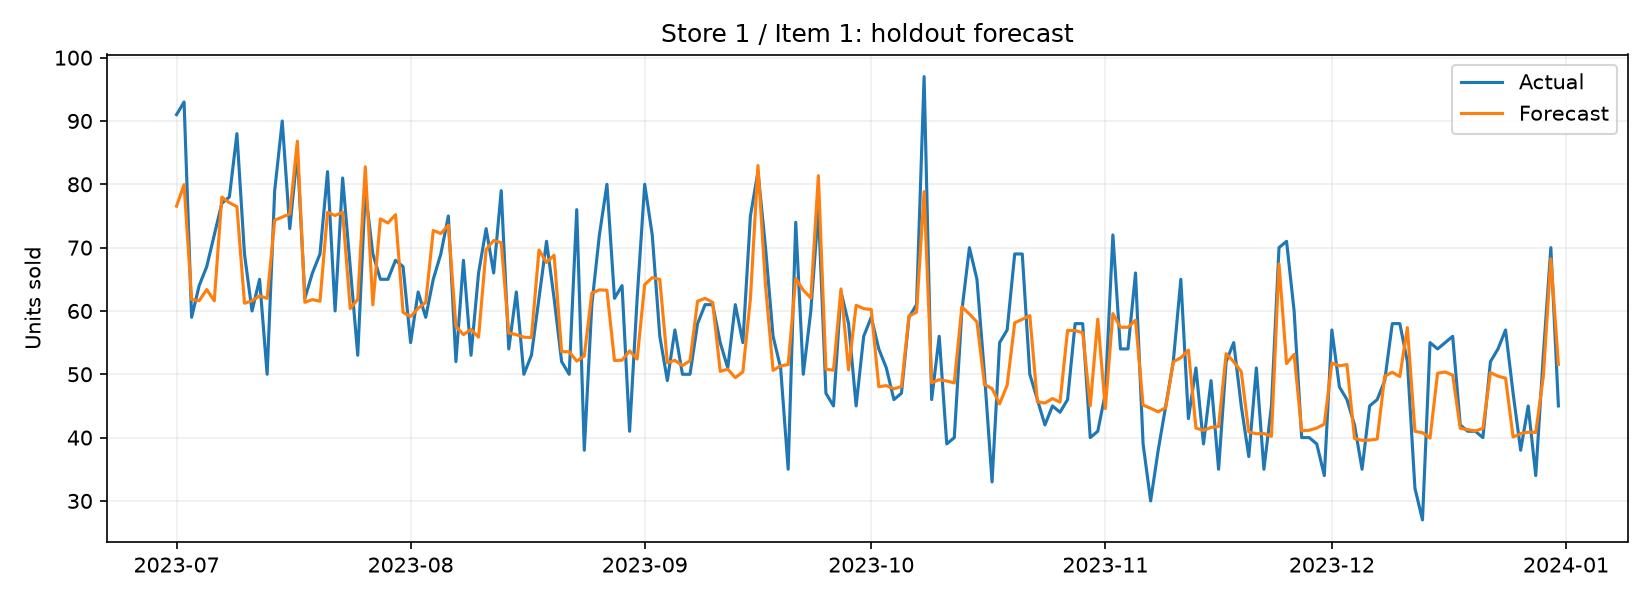
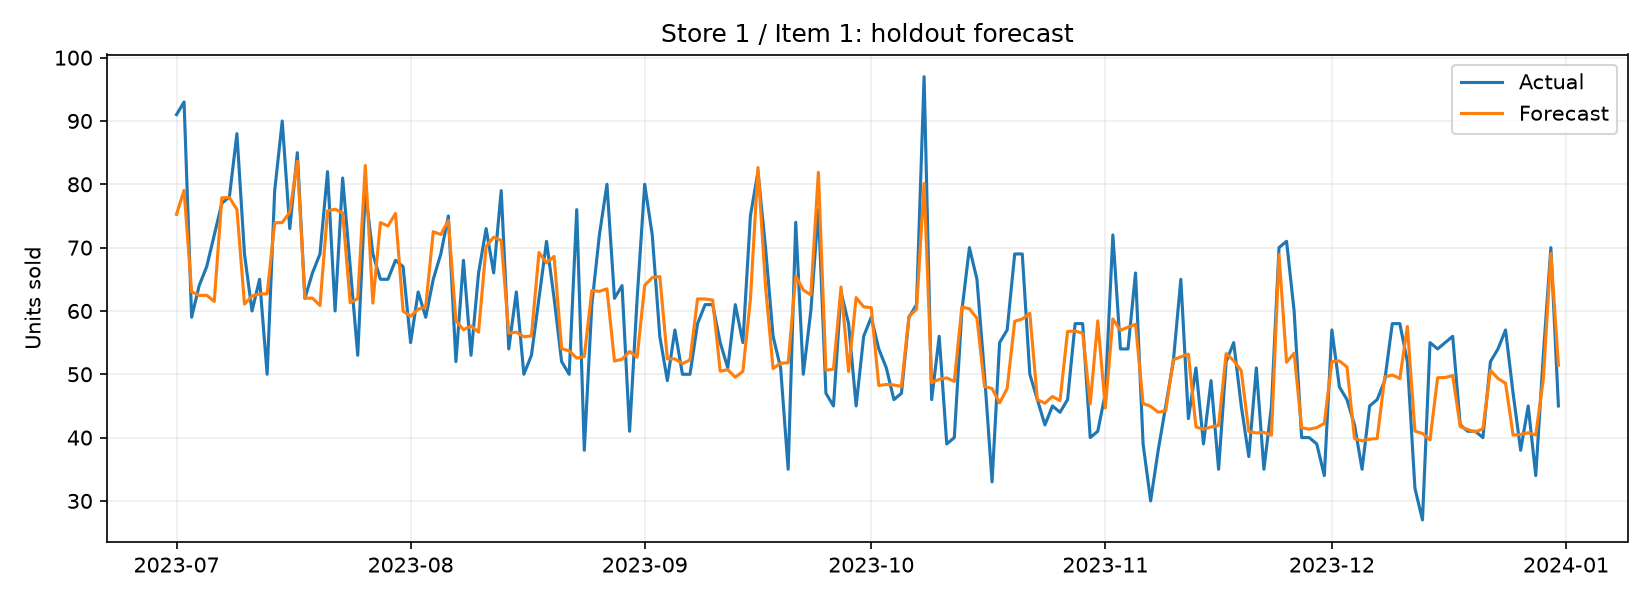
docs: finalize clean-environment results

diff --git a/docs/06_TESTING_EVALUATION.md b/docs/06_TESTING_EVALUATION.md
@@ -22,5 +22,6 @@ python -m pytest -q
 | 2026-10-27 | `python src/generate_data.py`; `python src/eda.py` | Generated 27,390 rows from 2019-01-01 to 2023-12-31 (3 stores, 5 items); chart saved to `reports/sales_overview.png`. Friday mean sales: 682.5; Monday: 544.4. Pytest was initially unavailable; it was installed later. | Synthetic data generation and EDA completed; weekday pattern is visible. The full suite was later verified. |
 | 2026-10-27 | `python src/baselines.py` on the 2023-07-01–2023-12-31 time holdout | Yesterday: MAE 9.79, RMSE 13.37, MAPE 22.88%. Last week: MAE 8.83, RMSE 12.06, MAPE 21.03%. Metrics saved in `reports/baseline_metrics.csv`. | Seasonal naive is the stronger baseline so far; the final model must beat MAE 8.83 to meet the project success criterion. |
 | 2026-10-27 | `python src/train.py` | Fitted HistGradientBoosting on 24,210 feature rows from 2019-01-29 through 2023-06-30 and saved `models/sales_model.joblib`. No holdout metrics were used for fitting. | Training artifact was fit only on the training dates; the full suite was later verified. |
-| 2026-10-27 | `python src/evaluate.py` on the 2023-07-01–2023-12-31 holdout; visual review of `reports/forecast.png` and largest absolute errors | Yesterday baseline: 9.79 / 13.37 / 22.88%; seasonal naive: 8.83 / 12.06 / 21.03%; HistGradientBoosting: 5.49 / 7.12 / 13.58% (MAE / RMSE / MAPE). Weekday model MAE ranges from 5.03 (Monday) to 5.91 (Sunday). Largest miss was 41.36 units (store 3/item 5, 2023-10-26, promo day); other large misses include stochastic non-promo peaks. `python -m pytest -q`: 8 passed. | Model beats the strongest baseline on MAE and meets the synthetic MAPE target. It smooths isolated spikes; one-step rolling evaluation uses prior observed sales. |
-| 2026-10-27 | `python src/recommend_reorder.py --store 1 --item 1 --on-hand 20`; dashboard browser smoke check | CLI forecast 42.2 units for 2024-01-01 and suggested ordering 32 units with the default 20% safety factor. Dashboard rendered forecasts, held-out metrics, weekday errors, and updated the recommendation to 0 units when on-hand stock was set to 100. `python -m pytest -q`: 10 passed. | Reorder and dashboard flows work. Holiday labels are unavailable in the selected synthetic data; the point forecast is not a confidence interval. |
+| 2026-10-27 | Clean Python 3.14 environment `python src/evaluate.py` on the 2023-07-01–2023-12-31 holdout; visual review of forecast and largest absolute errors | Yesterday baseline: 9.79 / 13.37 / 22.88%; seasonal naive: 8.83 / 12.06 / 21.03%; HistGradientBoosting: 5.49 / 7.12 / 13.60% (MAE / RMSE / MAPE). Weekday model MAE ranges from 5.01 (Monday) to 5.92 (Sunday). Largest miss was 42.84 units (store 3/item 5, 2023-10-26, promo day); other large misses include stochastic non-promo peaks. | Model beats the strongest baseline on MAE and meets the synthetic MAPE target. It smooths isolated spikes; one-step rolling evaluation uses prior observed sales. |
+| 2026-10-27 | `python src/recommend_reorder.py --store 1 --item 1 --on-hand 20`; dashboard browser smoke check | Clean-environment CLI forecast 42.4 units for 2024-01-01 and suggested ordering 32 units with the default 20% safety factor. Dashboard rendered forecasts, held-out metrics, weekday errors, and updated the recommendation to 0 units when on-hand stock was set to 100. Clean-environment `python -m pytest -q`: 10 passed. | Reorder and dashboard flows work. Holiday labels are unavailable in the selected synthetic data; the point forecast is not a confidence interval. |
+| 2026-10-27 | Fresh detached worktree at `fea84e0`, isolated Python 3.14 virtual environment, and README commands | Installed all requirements; generation, EDA, baselines, training, evaluation, reorder CLI, and dashboard launch completed. `python -m pytest -q`: 10 passed. | Clean checkout setup works. Metric differences across supported library versions are small; README values match this isolated environment. |

diff --git a/docs/05_ROADMAP.md b/docs/05_ROADMAP.md
@@ -43,5 +43,6 @@ Convert forecast into a suggested reorder quantity with a safety stock. Dashboar
 | 2026-10-27 | Generated the documented synthetic sales data and added a validating EDA script with a daily trend and weekday seasonality chart. Data covers 2019-01-01 through 2023-12-31 across 3 stores and 5 items; Friday averaged 682.5 units versus Monday's 544.4. | Pytest was initially unavailable; it was later installed from cache and the full suite passed. | Phase 2: compare yesterday and last-week baselines on a time-based holdout. |
 | 2026-10-27 | Added prior-day and prior-week baseline forecasts, temporal holdout scoring, and unit tests. On 2023-07-01 through 2023-12-31, yesterday MAE/RMSE/MAPE were 9.79/13.37/22.88%; last-week values were 8.83/12.06/21.03%. | Pytest was initially unavailable; it was later installed from cache and the full suite passed. | Phase 3: engineer leakage-safe features and train the ML model against these baselines. |
 | 2026-10-27 | Added shared sales cleaning (invalid values rejected, duplicate keys aggregated, missing dates filled), a prior-day model feature, and training-only HistGradientBoosting fitting. The model trained on 24,210 rows through 2023-06-30. | Pytest was initially unavailable; it was later installed from cache and the full suite passed. | Phase 4: evaluate the saved model on the held-out dates and compare with both baselines. |
-| 2026-10-27 | Evaluated the baselines and HistGradientBoosting on held-out 2023-07-01–2023-12-31 dates, saved metrics and forecast plots, and reviewed weekday errors and largest misses. ML MAE/RMSE/MAPE were 5.49/7.12/13.58%; all 8 tests passed. | None. | Phase 5: add reorder recommendations and the Streamlit dashboard after the Must-have pipeline passed tests. |
-| 2026-10-27 | Added next-day forecast features, safety-stock reorder CLI, and Streamlit dashboard; completed the report and README. Dashboard shows forecasts, inventory input, reorder suggestion, evaluation metrics, and weekday errors. Browser preview rendered and recommendation updated with stock input; 10 tests passed. | Clean-clone verification remains. | Verify README setup from a clean clone and close out deliverables. |
+| 2026-10-27 | Evaluated the baselines and HistGradientBoosting on held-out 2023-07-01–2023-12-31 dates, saved metrics and forecast plots, and reviewed weekday errors and largest misses. The clean Python 3.14 environment scored ML MAE/RMSE/MAPE 5.49/7.12/13.60%; all 10 tests passed there. | None. | Phase 5: add reorder recommendations and the Streamlit dashboard after the Must-have pipeline passed tests. |
+| 2026-10-27 | Added next-day forecast features, safety-stock reorder CLI, and Streamlit dashboard; completed the report and README. Dashboard shows forecasts, inventory input, reorder suggestion, evaluation metrics, and weekday errors. Browser preview rendered and recommendation updated with stock input; 10 tests passed. | None. | Verify the clean checkout. |
+| 2026-10-27 | Completed the README pipeline in a fresh detached worktree with an isolated Python 3.14 `.venv`; all 10 tests passed and the dashboard rendered. Switched to pandas' canonical calendar attributes to avoid deprecation warnings. | None. | Complete deliverables. |

diff --git a/docs/09_REPORT_TEMPLATE.md b/docs/09_REPORT_TEMPLATE.md
@@ -5,7 +5,7 @@
 
 ## Abstract
 
-This project forecasts daily sales for individual store and product pairs to support inventory planning. It uses a reproducible synthetic dataset with calendar, promotion, lag, and rolling-mean features in a time-series pipeline. A HistGradientBoosting model was trained before 2023-07-01 and evaluated on the later 2023-07-01 through 2023-12-31 period using one-step rolling forecasts. The model achieved MAE 5.49, RMSE 7.12, and MAPE 13.58%, improving on the seasonal-naive MAE of 8.83. A Streamlit dashboard and command-line tool turn next-day forecasts into reorder suggestions with configurable safety stock.
+This project forecasts daily sales for individual store and product pairs to support inventory planning. It uses a reproducible synthetic dataset with calendar, promotion, lag, and rolling-mean features in a time-series pipeline. A HistGradientBoosting model was trained before 2023-07-01 and evaluated on the later 2023-07-01 through 2023-12-31 period using one-step rolling forecasts. In the clean Python 3.14 environment, it achieved MAE 5.49, RMSE 7.12, and MAPE 13.60%, improving on the seasonal-naive MAE of 8.83. A Streamlit dashboard and command-line tool turn next-day forecasts into reorder suggestions with configurable safety stock.
 
 ## Introduction
 
@@ -25,13 +25,13 @@ Calendar features include weekday, month, and day of year. Lag features use the 
 |---|---:|---:|---:|
 | Naive: yesterday | 9.79 | 13.37 | 22.88% |
 | Seasonal naive: last week | 8.83 | 12.06 | 21.03% |
-| HistGradientBoosting | 5.49 | 7.12 | 13.58% |
+| HistGradientBoosting | 5.49 | 7.12 | 13.60% |
 
-The model's weekday MAE ranges from 5.03 units on Monday to 5.91 on Sunday. The forecast-versus-actual chart is in `reports/forecast.png`; the EDA trend and weekday chart is in `reports/sales_overview.png`.
+The model's weekday MAE ranges from 5.01 units on Monday to 5.92 on Sunday. The forecast-versus-actual chart is in `reports/forecast.png`; the EDA trend and weekday chart is in `reports/sales_overview.png`.
 
 ## Discussion and error analysis
 
-The model beats both baselines on MAE and stays below the synthetic-data MAPE target of about 15%. The largest absolute miss was 41.36 units for store 3/item 5 on 2023-10-26, a promotion day with an observed spike. Other large misses were stochastic non-promotion peaks. Lag and rolling features smooth such spikes, so the model can under-forecast abrupt demand changes.
+The model beats both baselines on MAE and stays below the synthetic-data MAPE target of about 15%. The largest absolute miss was 42.84 units for store 3/item 5 on 2023-10-26, a promotion day with an observed spike. Other large misses were stochastic non-promotion peaks. Lag and rolling features smooth such spikes, so the model can under-forecast abrupt demand changes. Scores vary slightly across supported scikit-learn versions.
 
 ## Limitations and ethics
 

diff --git a/README.md b/README.md
@@ -63,12 +63,14 @@ from earlier test days as lag features.
 |---|---:|---:|---:|
 | Naive: yesterday | 9.79 | 13.37 | 22.88% |
 | Seasonal naive: last week | 8.83 | 12.06 | 21.03% |
-| HistGradientBoosting | 5.49 | 7.12 | 13.58% |
+| HistGradientBoosting | 5.49 | 7.12 | 13.60% |
 
 ![Store 1, item 1 held-out forecast compared with actual sales](reports/forecast.png)
 
-The largest model errors are isolated demand spikes, including a synthetic
-promo-day spike; lag and rolling features smooth some of these peaks.
+The largest model error was 42.84 units on a synthetic promo-day spike; other
+large errors were stochastic non-promo peaks. Lag and rolling features smooth
+some of these peaks. Exact scores can vary slightly across supported
+scikit-learn versions.
 
 ## Folder map
 | Path | Purpose |

diff --git a/docs/08_DELIVERABLES_CHECKLIST.md b/docs/08_DELIVERABLES_CHECKLIST.md
@@ -7,7 +7,7 @@
 - [x] Reorder suggestion script and README
 
 ## Quality gate
-- [ ] Runs from a clean clone using only the README commands
+- [x] Runs from a clean checkout using the README setup and commands
 - [x] All tests pass
 - [x] No secrets or large data files in Git
 - [x] README includes charts and measured results
